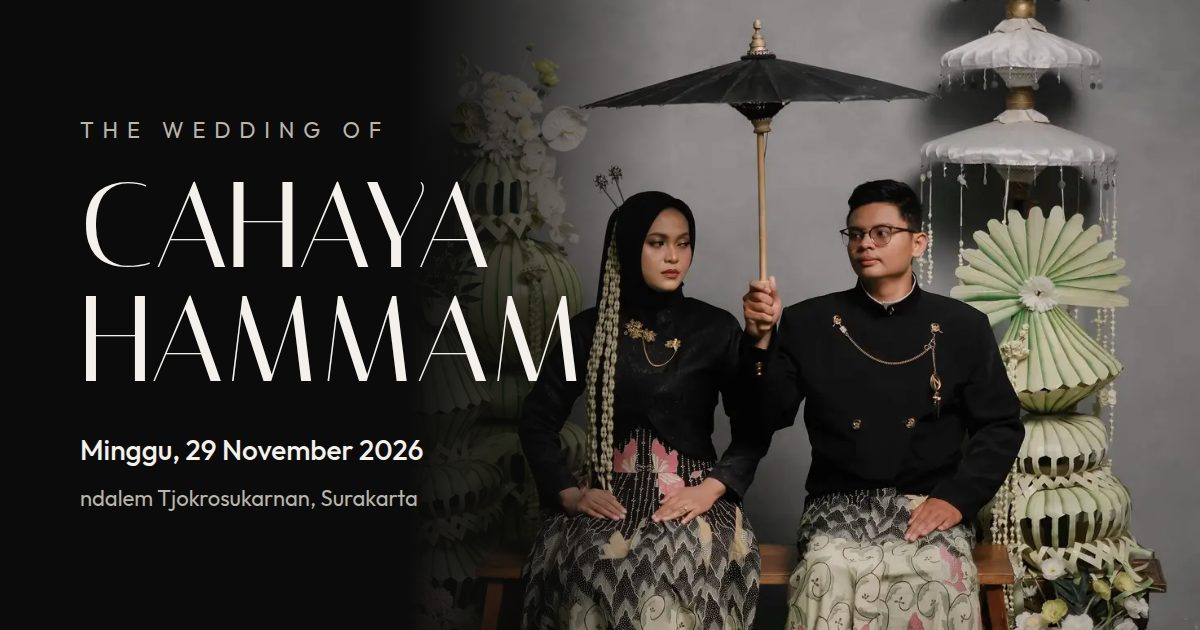
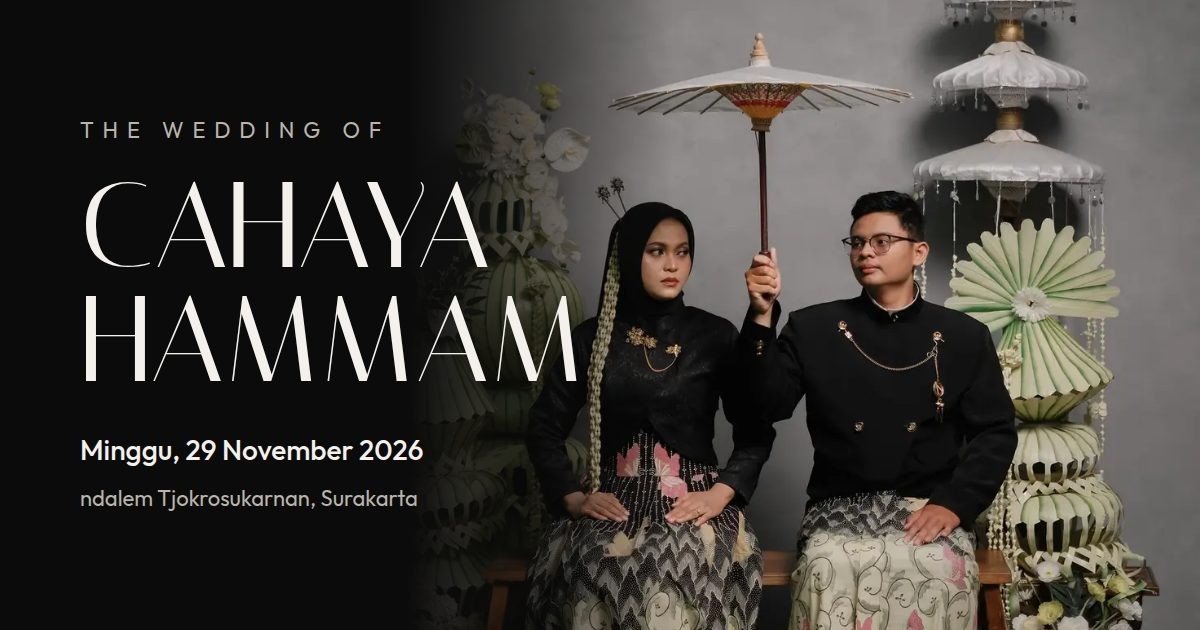
[feature] v3 - revisi 5

diff --git a/index.html b/index.html
@@ -30,7 +30,7 @@
 
     <!-- ============ Halaman 1 · Sampul ============ -->
     <section class="page page--cover" id="hal-1" aria-label="Halaman 1 dari 4, sampul">
-      <img class="bg" src="/assets/img/foto/sampul.webp" alt="" width="1080" height="1329" fetchpriority="high">
+      <img class="bg" src="/assets/img/foto/sampul.webp" alt="" width="1080" height="1328" fetchpriority="high">
       <div class="page__body cover">
         <p class="monogram" aria-hidden="true"><span>C</span><span>H</span></p>
         <h1 class="cover__names">The Wedding of<br>Cahaya &amp; Hammam</h1>

diff --git a/v3/index.html b/v3/index.html
@@ -30,7 +30,7 @@
 
     <!-- ============ Halaman 1 · Sampul ============ -->
     <section class="page page--cover" id="hal-1" aria-label="Halaman 1 dari 4, sampul">
-      <img class="bg" src="/assets/img/foto/sampul.webp" alt="" width="1080" height="1329" fetchpriority="high">
+      <img class="bg" src="/assets/img/foto/sampul.webp" alt="" width="1080" height="1328" fetchpriority="high">
       <div class="page__body cover">
         <p class="monogram" aria-hidden="true"><span>C</span><span>H</span></p>
         <h1 class="cover__names">The Wedding of<br>Cahaya &amp; Hammam</h1>

diff --git a/README.md b/README.md
@@ -72,7 +72,7 @@ Foto asli (Sakamata Studio, 1707x2560) diambil dari undangan Queen Invitation da
 
 | File | Sumber | Ukuran |
 |---|---|---|
-| `sampul.webp` (sampul, latar layar lebar, preview WhatsApp) | DSCF0980 (dari folder Prewedding asli, 18% bagian atas dipotong) | 1080x1329, q70 |
+| `sampul.webp` (sampul, latar layar lebar, preview WhatsApp) | DSCF0983 (versi edit dari folder Prewedding, 18% bagian atas dipotong) | 1080x1328, q70 |
 | `hero.webp` (pembuka hal. 2) | DSCF0996 | lebar 1080, q70 |
 | `simpan-tanggal.webp` (Save the Date) | DSCF0988 | lebar 1080, q70 |
 | `penutup.webp` (latar ayat & hitung mundur, dan penutup) | DSCF1068 | lebar 1080, q70 |
